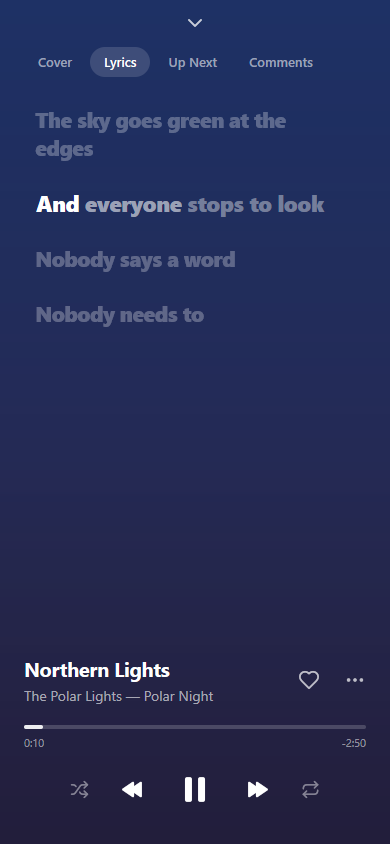
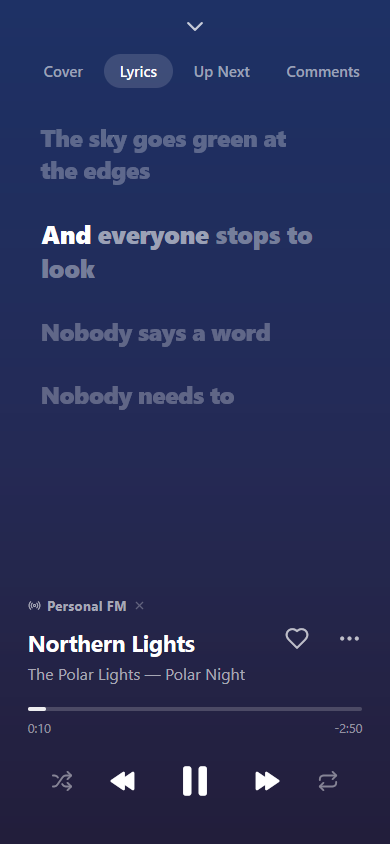
1.0.4: phone edges, a larger interface, and the radio on phones

diff --git a/internal/app/ui_radio.go b/internal/app/ui_radio.go
@@ -151,10 +151,14 @@ func (a *app) stationsPage(c *ui.Context) {
 		few := len(lib.stations) > 1 && len(lib.stations) <= maxSwitchedStations
 		ui.Row(c).AlignItems(ui.End).Children(func() {
 			ui.Box(c).Grow(1).Shrink(1).MinWidth(0).Children(func() { a.heading(c, a.builtinTitle("stations"), T("Music without end")) })
-			if few {
+			if few && !isCompact(c) {
 				a.stationSwitch(c, lib)
 			}
 		})
+		// A phone has no room beside the heading: under it, scrolling across.
+		if few && isCompact(c) {
+			ui.ScrollHorizontal(c.Key("stations")).Children(func() { a.stationSwitch(c, lib) })
+		}
 		if !lib.stationsOnce {
 			a.playlistCardsSkeleton(c, a.pageShimmer(c), a.columns(c, 156), 156, false)
 			return
@@ -223,8 +227,15 @@ func (a *app) radioCard(c *ui.Context, lib *library) {
 	if tr != nil {
 		art = a.art.get(sized(tr.Album.ImageURL, 600), true)
 	}
-	card := ui.Box(c.Key("radio-card")).Height(320).Radius(24).Background(ui.Hex("#232328")).TextColor(white).
+	// On a phone the covers go over what plays, as tall as they need.
+	compact := isCompact(c)
+	card := ui.Box(c.Key("radio-card")).Radius(24).Background(ui.Hex("#232328")).TextColor(white).
 		Shadow(0, 18, 44, -16, a.pal.cardShade)
+	titleSize := float32(24)
+	if !compact {
+		card.Height(320)
+		titleSize = 30
+	}
 	in := artIn(card, backdrop(art))
 	card.Children(func() {
 		if in < 1 {
@@ -237,8 +248,16 @@ func (a *app) radioCard(c *ui.Context, lib *library) {
 				{Color: ui.RGBA(0, 0, 0, 0.35), At: 0},
 				{Color: ui.RGBA(0, 0, 0, 0.1), At: 1},
 			}})
-		ui.Row(c).Absolute().Top(0).Left(0).Right(0).Bottom(0).Padding(36, 40).Gap(40).AlignItems(ui.Center).Children(func() {
-			a.radioCovers(c, tr)
+		inner := ui.Row(c).Absolute().Top(0).Left(0).Right(0).Bottom(0).Padding(36, 40).Gap(40).AlignItems(ui.Center)
+		coverSize := float32(232)
+		if compact {
+			// In the flow, as tall as it needs: over the layers behind it,
+			// which are positioned, and would paint over it.
+			inner = ui.Column(c).Padding(28, 24, 24, 24).Gap(22).AlignItems(ui.Stretch).ZIndex(1)
+			coverSize = max(min(contentWidth(c)-2*pagePadding(c)-48-36, 220), 120)
+		}
+		inner.Children(func() {
+			ui.Row(c).Shrink(0).Justify(ui.Center).Children(func() { a.radioCovers(c, tr, coverSize) })
 			ui.Column(c).Grow(1).Shrink(1).MinWidth(0).Gap(8).Children(func() {
 				first := &lib.stations[min(a.stationAt, len(lib.stations)-1)]
 				label := first.Name
@@ -250,7 +269,7 @@ func (a *app) radioCard(c *ui.Context, lib *library) {
 					ui.Text(c, label).FontSize(12).FontWeight(600).TextColor(white.Alpha(0.75))
 				})
 				if tr == nil {
-					ui.Text(c, T("Hear something new")).FontSize(30).FontWeight(800).LetterSpacing(-0.6)
+					ui.Text(c, T("Hear something new")).FontSize(titleSize).FontWeight(800).LetterSpacing(-0.6)
 					if first.Description != "" {
 						ui.Text(c, first.Description).FontSize(13.5).TextColor(white.Alpha(0.75)).MaxLines(2)
 					}
@@ -265,7 +284,7 @@ func (a *app) radioCard(c *ui.Context, lib *library) {
 					})
 					return
 				}
-				ui.Text(c, tr.Name).FontSize(30).FontWeight(800).LetterSpacing(-0.6).MaxLines(2).LineHeight(1.2)
+				ui.Text(c, tr.Name).FontSize(titleSize).FontWeight(800).LetterSpacing(-0.6).MaxLines(2).LineHeight(1.2)
 				switch {
 				case pl.Loading():
 					ui.Text(c, T("Buffering…")).FontSize(14).TextColor(white.Alpha(0.7)).SingleLine()
@@ -299,8 +318,7 @@ func (a *app) radioCard(c *ui.Context, lib *library) {
 
 // radioCovers stacks the cover playing over the next one's, which peeks out
 // behind it, tilted.
-func (a *app) radioCovers(c *ui.Context, tr *music.Track) {
-	const size = 232
+func (a *app) radioCovers(c *ui.Context, tr *music.Track, size float32) {
 	ui.Box(c).Size(size+36, size).Shrink(0).Children(func() {
 		var next *music.Track
 		if tr != nil {

diff --git a/internal/app/ui_compact.go b/internal/app/ui_compact.go
@@ -23,6 +23,66 @@ func isCompact(c *ui.Context) bool {
 // hardware buttons for the volume and no pointer to hover.
 var onPhone = runtime.GOOS == "android" || runtime.GOOS == "ios"
 
+// uiScales are the sizes the interface can show at, in percent: 0 follows
+// the device.
+var uiScales = []struct {
+	percent int
+	label   string
+}{
+	{0, N("Automatic")},
+	{100, "100%"},
+	{115, "115%"},
+	{130, "130%"},
+}
+
+// phoneZoom is how much larger a phone shows the interface: its pages were
+// made for a desktop's, read at arm's length, not in the hand.
+const phoneZoom = 1.15
+
+// zoom is how much larger the windows' content shows, as the settings say.
+func (a *app) zoom() float32 {
+	if a.settings.UIScale > 0 {
+		return float32(a.settings.UIScale) / 100
+	}
+	if onPhone {
+		return phoneZoom
+	}
+	return 1
+}
+
+// phoneEdges paints the strips of a phone's screen its bars cover, which
+// the window's content stays clear of, in the colors of what meets them:
+// the page and the tabs, or Now Playing's backdrop as it comes over them.
+// Left to the window's background, they showed as white bands over and
+// under the lyrics.
+func (a *app) phoneEdges(c *ui.Context) {
+	top, _, bottom, _ := c.SafeArea()
+	if top <= 0 && bottom <= 0 {
+		return
+	}
+	p := a.pal
+	head, foot := p.bg, p.bg
+	if isCompact(c) {
+		foot = p.sidebar
+	}
+	if k := clamp01(a.npT); k > 0 {
+		tint := ui.RGB(120, 120, 130)
+		if a.npArt != nil && !a.npArt.failed {
+			tint = a.npArt.tint
+		}
+		npTop, npFoot := backdropColors(tint)
+		head, foot = head.Mix(npTop, k), foot.Mix(npFoot, k)
+	}
+	ui.Overlay(c, func() {
+		if top > 0 {
+			ui.Box(c.Key("edge-top")).Absolute().Top(0).Left(0).Right(0).Height(top).Background(head).PassThrough()
+		}
+		if bottom > 0 {
+			ui.Box(c.Key("edge-bottom")).Absolute().Bottom(0).Left(0).Right(0).Height(bottom).Background(foot).PassThrough()
+		}
+	})
+}
+
 // compactBarHeight is the height of the player floating over the tabs in the
 // compact layout, compactBarGap the room around it, and tabBarHeight the
 // height of the tabs.

diff --git a/internal/i18n/zh_cn.go b/internal/i18n/zh_cn.go
@@ -237,10 +237,13 @@ var zhCN = map[string]string{
 	"Scan the code with the NetEase Cloud Music app to sign in.":                                                            "打开网易云音乐 App，扫描二维码登录。",
 	"What's asked of NetEase Cloud Music, from the next song on":                                                            "向网易云音乐请求的音质，从下一首开始生效",
 	"Adjust each song's volume by the loudness NetEase Cloud Music measured of it, for them to sound as loud as each other": "按网易云音乐测得的响度调整每首歌的音量，让歌曲听起来一样响",
-	"Enable %s":     "启用 %s",
-	"Mine":          "我的",
-	"Diagnostics":   "诊断",
-	"Playback Test": "播放检测",
+	"Enable %s":                        "启用 %s",
+	"Mine":                             "我的",
+	"Interface Size":                   "界面大小",
+	"How large text and controls show": "文字与按钮显示的大小",
+	"Automatic":                        "自动",
+	"Diagnostics":                      "诊断",
+	"Playback Test":                    "播放检测",
 	"Checks asking for a song, downloading it and the sound output, one after another": "依次检查：向网易云要歌、下载歌曲、声音输出",
 	"Run":      "开始检测",
 	"Running…": "正在检测…",

diff --git a/internal/app/ui_settings.go b/internal/app/ui_settings.go
@@ -149,6 +149,7 @@ func (a *app) settingsView(c *ui.Context) {
 	p := paletteFor(&t)
 	useAccent(&t, p)
 	c.SetTheme(&t)
+	c.SetZoom(a.zoom())
 	c.Root().Background(p.bg)
 	c.OnShortcut(ui.Cmd, ui.KeyW, func() { a.settingsWin.Close() })
 	c.OnShortcut(ui.Cmd, ui.KeyF, func() { a.settingsSearchBox.Focus(c) })
@@ -364,6 +365,20 @@ func (a *app) settingsSections(c *ui.Context, p palette) []settingsSection {
 					}
 				}
 				a.setLanguage(code)
+			}
+		})
+		row(T("Interface Size"), T("How large text and controls show"), func() {
+			labels := make([]string, len(uiScales))
+			at := 0
+			for i, sc := range uiScales {
+				labels[i] = sc.label
+				if sc.percent == s.UIScale {
+					at = i
+				}
+			}
+			if i, ok := choice(c, "ui-scale", T("Interface Size"), labels, at); ok {
+				s.UIScale = uiScales[i].percent
+				a.changed()
 			}
 		})
 		row(T("Appearance"), "", func() {

diff --git a/internal/app/app.go b/internal/app/app.go
@@ -295,9 +295,13 @@ func Run() error {
 	if !mygo.App.RequestSingleInstanceLock() {
 		return nil
 	}
-	// A heap that grows by half, not by all of itself, before it's collected:
-	// a music player idles most of the time, and its memory is what's seen.
-	debug.SetGCPercent(50)
+	// On a desktop, a heap that grows by half, not by all of itself, before
+	// it's collected: a music player idles most of the time, and its memory
+	// is what's seen. A phone keeps Go's pace: collecting twice as often
+	// there costs frames, which are seen more.
+	if !onPhone {
+		debug.SetGCPercent(50)
+	}
 	keepLog()
 	a := &app{
 		signInOver:  new(atomic.Pointer[mygo.Window]),

diff --git a/internal/app/phone_frames_test.go b/internal/app/phone_frames_test.go
@@ -64,6 +64,13 @@ func TestPhoneFrames(t *testing.T) {
 	settled(tt)
 	saveFrame(t, dir, "phone-settings.png", tt.Image())
 
+	a.library.stations = []music.Station{{ID: "fm", Name: "Personal FM"}, {ID: "heart", Name: "Heartbeat"}}
+	a.library.stationsOnce = true
+	a.pl.AttachRadio(radioName("fake", &a.library.stations[0]), func(func([]music.Track)) {})
+	a.open(route{page: pageStations})
+	settled(tt)
+	saveFrame(t, dir, "phone-fm.png", tt.Image())
+
 	a.nowPlaying, a.npPane = true, paneLyrics
 	tt.SetDark(true)
 	tt.Advance(2 * time.Second)

diff --git a/internal/app/ui_nowplaying.go b/internal/app/ui_nowplaying.go
@@ -33,10 +33,13 @@ func (a *app) npState(c *ui.Context) (open, settled bool) {
 		// theme over the pages (Windows).
 		if a.win != nil {
 			buttons := mygo.ThemeSystem
+			bars := mygo.BarStyleAuto
 			if open {
-				buttons = mygo.ThemeDark
+				buttons, bars = mygo.ThemeDark, mygo.BarStyleLight
 			}
 			a.win.SetWindowButtonsTheme(buttons)
+			// And the icons of a phone's bars, over the backdrop there.
+			mygo.SystemBars.SetStyle(bars)
 		}
 	}
 	return open, a.npAtRest(open)

diff --git a/internal/app/settings.go b/internal/app/settings.go
@@ -78,6 +78,9 @@ type settings struct {
 	CacheMB int `json:"cacheMB"`
 	// SearchHistory keeps submitted keywords, most recent first.
 	SearchHistory []string `json:"searchHistory,omitempty"`
+	// UIScale zooms the windows' content, in percent: 0 to follow the device,
+	// larger on a phone.
+	UIScale int `json:"uiScale,omitempty"`
 
 	path string // where they were loaded from, and are saved to
 }

diff --git a/internal/app/ui_main.go b/internal/app/ui_main.go
@@ -19,6 +19,7 @@ func (a *app) view(c *ui.Context) {
 	useAccent(&t, p)
 	t.Selection = p.accent.Alpha(0.3)
 	c.SetTheme(&t)
+	c.SetZoom(a.zoom())
 
 	a.shortcuts(c)
 
@@ -80,6 +81,7 @@ func (a *app) view(c *ui.Context) {
 		})
 		a.nowPlayingLayer(c, npOpen, npSettled)
 	})
+	a.phoneEdges(c)
 	a.signInDialog(c, a.pal, false)
 	a.playlistNameDialog(c)
 	a.deletePlaylistDialog(c)

diff --git a/CHANGELOG.md b/CHANGELOG.md
@@ -2,6 +2,18 @@
 
 MyGo Music Classic 的所有更新都记在这里。版本号遵循 [Semantic Versioning](https://semver.org)。
 
+## [1.0.4] - 2026-11-19
+
+### 修复
+
+- 安卓全面屏上，状态栏和导航栏区域不再露出白边：页面、底部标签栏和“正在播放”的背景会延伸到屏幕边缘，打开“正在播放”时状态栏图标变成浅色。
+- 手机上改回 Go 默认的内存回收频率，减少滑动和动画时的掉帧。
+
+### 变更
+
+- 手机上界面默认放大到 115%。设置 → 通用新增“界面大小”：自动、100%、115%、130%，桌面端也能用。
+- 私人 FM 页适配手机：封面在上，歌名和播放按钮在下；电台切换放到标题下方。
+
 ## [1.0.3] - 2026-11-19
 
 ### 修复
